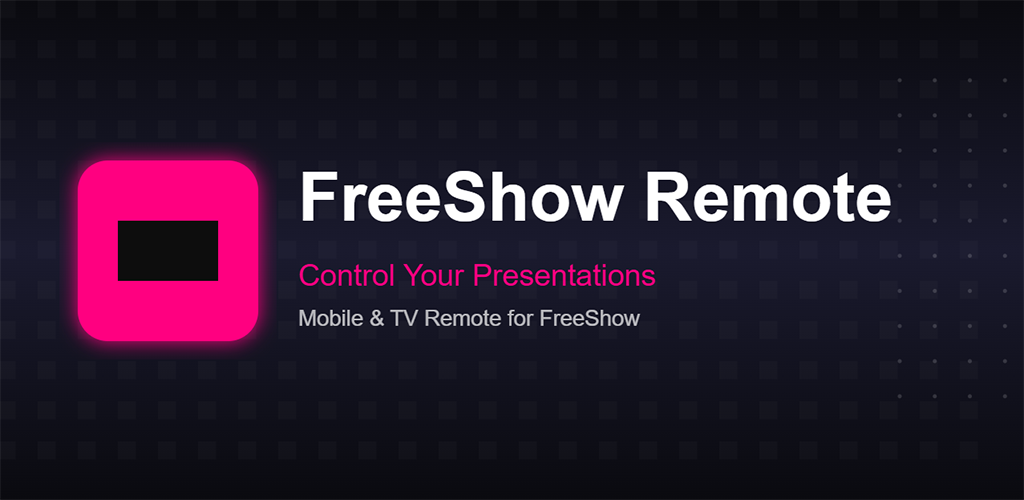
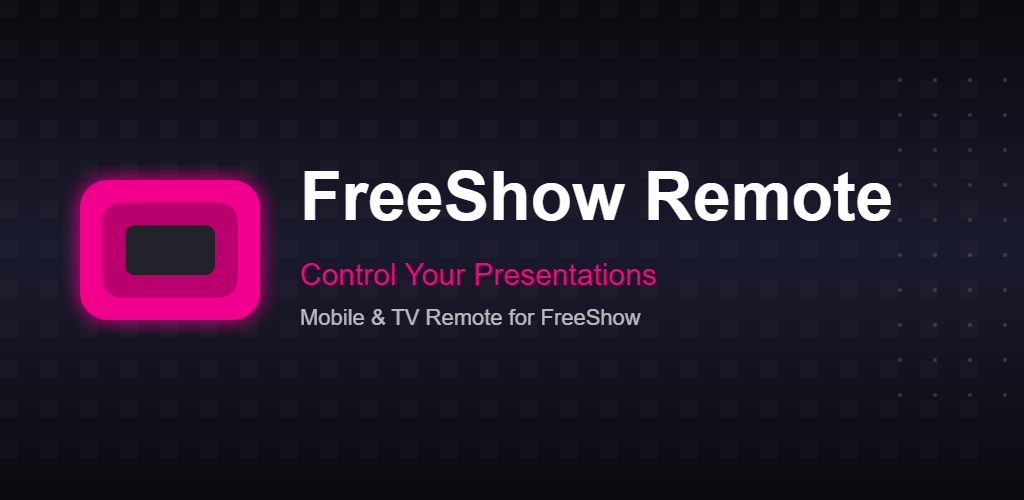
Updated graphic

Changed region(s): [[0.0625, 0.27, 0.875, 0.72], [0.2812, 0.51, 0.6562, 0.57]]

diff --git a/README.md b/README.md
@@ -1,5 +1,5 @@
 # FreeShow Remote
-<img src="screenshots/logo512.png" width="150" align="right" />
+<img src="assets/app-icon.png" width="150" align="right" />
 
 > FreeShow Remote is the mobile companion app for [FreeShow](https://freeshow.app) presentation software. Control your presentations wirelessly from your iOS or Android device with features including slide navigation, stage display viewing, and auto-discovery of FreeShow instances on your local network.
 
